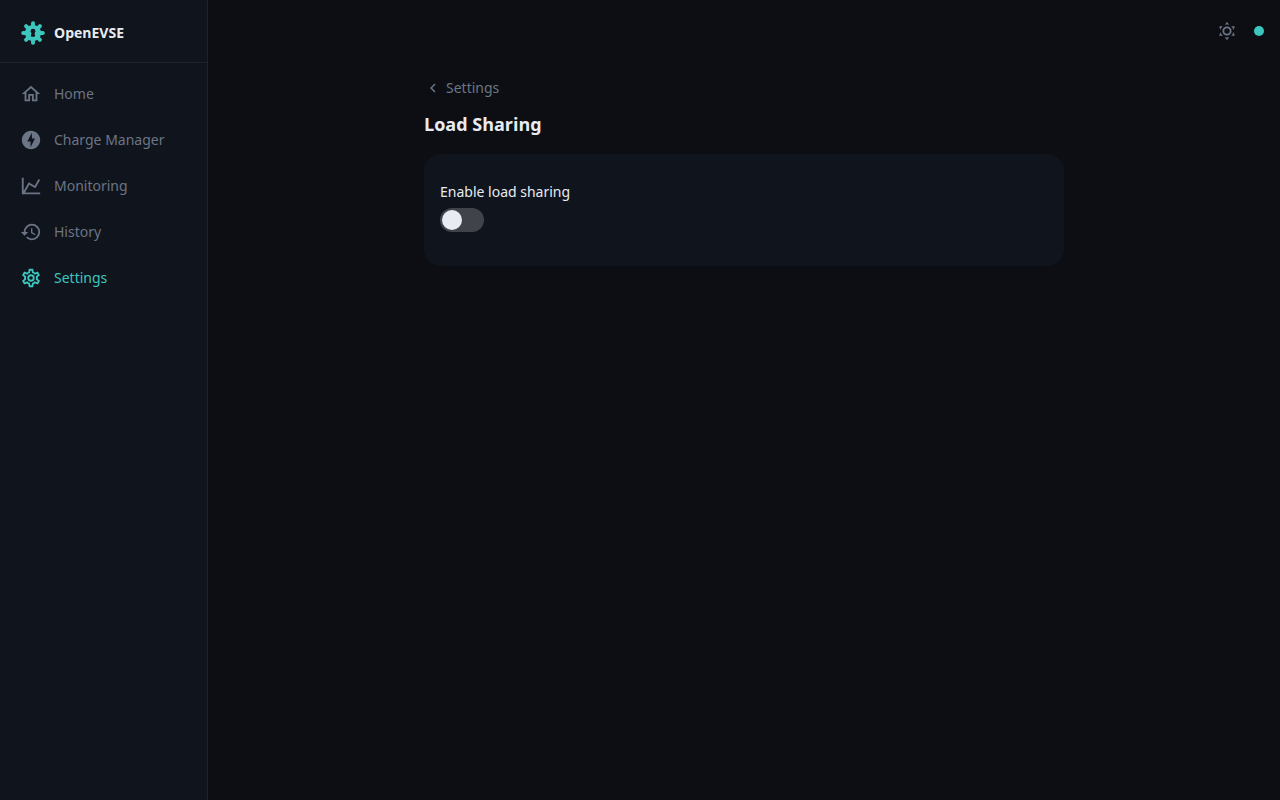
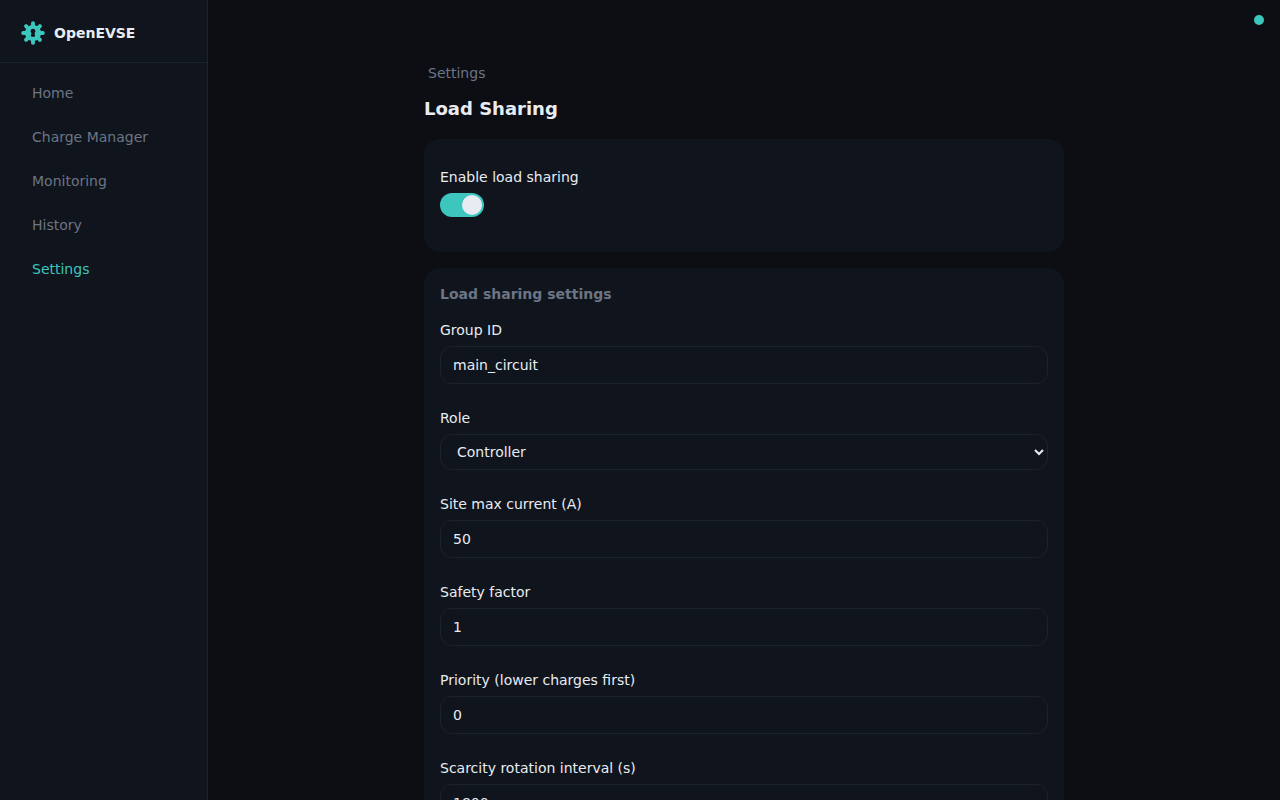
fix load sharing review follow-ups

diff --git a/dev/mock-plugin.js b/dev/mock-plugin.js
@@ -85,8 +85,8 @@ export function mockPlugin() {
   // run; reset by restarting the server.
   const rfidUsers = JSON.parse(loadFixture('rfid_users.json'))
   const loadsharingPeers = [
-    { id: 'peer-1', name: 'Garage', host: 'garage.local', online: true, joined: true },
-    { id: 'peer-2', name: 'Yard', host: 'yard.local', online: true, joined: false }
+    { id: 'peer-1', name: 'Garage', host: 'garage.local', online: true, joined: true, priority: 0 },
+    { id: 'peer-2', name: 'Yard', host: 'yard.local', online: true, joined: false, priority: 0 }
   ]
 
   // Dev-only runtime state override. Lets the resting/charging layouts be
@@ -202,7 +202,7 @@ export function mockPlugin() {
                 if (existing) {
                   existing.joined = true
                 } else {
-                  loadsharingPeers.push({ id: `peer-${Date.now()}`, name: host, host, online: true, joined: true })
+                  loadsharingPeers.push({ id: `peer-${Date.now()}`, name: host, host, online: true, joined: true, priority: 0 })
                 }
               } catch {}
               res.writeHead(200, { 'Content-Type': 'application/json' })
@@ -213,6 +213,23 @@ export function mockPlugin() {
         }
 
         if (url && url.startsWith('/api/loadsharing/peers/')) {
+          if (req.method === 'PUT') {
+            const host = decodeURIComponent(url.slice('/api/loadsharing/peers/'.length))
+            let body = ''
+            req.on('data', (chunk) => { body += chunk })
+            req.on('end', () => {
+              try {
+                const { priority } = JSON.parse(body)
+                const peer = loadsharingPeers.find(p => p.host === host)
+                if (peer) {
+                  peer.priority = priority
+                }
+              } catch {}
+              res.writeHead(200, { 'Content-Type': 'application/json' })
+              res.end(JSON.stringify({ msg: 'done' }))
+            })
+            return
+          }
           if (req.method === 'DELETE') {
             const host = decodeURIComponent(url.slice('/api/loadsharing/peers/'.length))
             const idx = loadsharingPeers.findIndex(p => p.host === host)

diff --git a/src/routes/settings/LoadSharing.svelte b/src/routes/settings/LoadSharing.svelte
@@ -44,9 +44,6 @@
       ? $loadsharing_store.status.peers
       : ($loadsharing_store?.peers ?? []),
   )
-  let allocationVersion = $derived($status_store?.loadsharing_status_version)
-  let joinedPeersFromWs = $derived(Array.isArray($status_store?.loadsharing_joined_peers) ? $status_store.loadsharing_joined_peers : [])
-  let groupCurrentTotal = $derived($status_store?.loadsharing_group_current_total ?? 0)
   let allocations = $derived($loadsharing_store?.status?.allocations ?? [])
   let runtimeStatus = $derived($loadsharing_store?.status ?? {})
   let hasSafetyFactor = $derived($config_store?.loadsharing_safety_factor !== undefined)
@@ -74,7 +71,9 @@
     controllerPeer?.url || (controllerHost ? `http://${controllerHost}` : ''),
   )
   let memberAssignedLimit = $derived(
-    $claims_target_store?.claims?.max_current === EvseClients.shaper.id
+    [EvseClients.shaper.id, EvseClients.loadsharing.id].includes(
+      $claims_target_store?.claims?.max_current,
+    )
       ? $claims_target_store?.properties?.max_current ?? null
       : null,
   )
@@ -158,6 +157,15 @@
     peersBusy = true
     try {
       await loadsharing_store.discover()
+    } finally {
+      peersBusy = false
+    }
+  }
+
+  async function refreshPeers() {
+    peersBusy = true
+    try {
+      await loadsharing_store.refresh()
     } finally {
       peersBusy = false
     }
@@ -340,7 +348,7 @@
 
     {#if isController}
       <ConfigSection title={$_('config.loadsharing.peers')}>
-        <div class="mb-3 grid gap-2 sm:grid-cols-[1fr_auto_auto]">
+        <div class="mb-3 grid gap-2 sm:grid-cols-[1fr_auto_auto_auto]">
           <TextInput
             value={peerHost}
             placeholder="openevse-2.local"
@@ -357,6 +365,12 @@
             variant="ghost"
             disabled={peersBusy}
             onclick={discoverPeers}
+          />
+          <Button
+            label={$_('config.loadsharing.refresh')}
+            variant="ghost"
+            disabled={peersBusy}
+            onclick={refreshPeers}
           />
         </div>
 

diff --git a/src/routes/settings/__tests__/LoadSharing.test.js b/src/routes/settings/__tests__/LoadSharing.test.js
@@ -104,7 +104,7 @@ describe('LoadSharing page', () => {
     })
     claims_target_store.set({
       properties: { max_current: 10 },
-      claims: { state: null, max_current: EvseClients.shaper.id },
+      claims: { state: null, max_current: EvseClients.loadsharing.id },
     })
     config_store.set({
       loadsharing_enabled: true,
@@ -167,6 +167,23 @@ describe('LoadSharing page', () => {
     await fireEvent.click(addButton)
 
     expect(addPeerSpy).toHaveBeenCalledWith('yard.local')
+    expect(refreshSpy).toHaveBeenCalled()
+  })
+
+  it('allows refreshing peers from the controller toolbar', async () => {
+    config_store.set({
+      loadsharing_enabled: true,
+      loadsharing_role: 'controller',
+      loadsharing_group_id: 'main',
+      loadsharing_group_max_current: 50,
+      loadsharing_safety_factor: 0.9,
+    })
+
+    const refreshSpy = vi.spyOn(loadsharing_store, 'refresh').mockResolvedValue(true)
+
+    const { getByText } = render(LoadSharing)
+    await fireEvent.click(getByText('config.loadsharing.refresh'))
+
     expect(refreshSpy).toHaveBeenCalled()
   })
 

diff --git a/src/routes/Dashboard.svelte b/src/routes/Dashboard.svelte
@@ -116,7 +116,9 @@
   let loadSharingControlled = $derived(loadSharingEnabled && loadSharingRole === 'member')
   let loadSharingController = $derived($config_store?.loadsharing_controller_host ?? '')
   let loadSharingClaimed = $derived(
-    $claims_target_store?.claims?.max_current === EvseClients.shaper.id,
+    [EvseClients.shaper.id, EvseClients.loadsharing.id].includes(
+      $claims_target_store?.claims?.max_current,
+    ),
   )
   let loadSharingBadges = $derived({
     active: loadSharingEnabled,

diff --git a/src/routes/__tests__/Dashboard.test.js b/src/routes/__tests__/Dashboard.test.js
@@ -339,7 +339,7 @@ describe('Dashboard', () => {
     })
     claims_target_store.set({
       properties: { max_current: 16 },
-      claims: { state: null, max_current: EvseClients.shaper.id },
+      claims: { state: null, max_current: EvseClients.loadsharing.id },
     })
     status_store.set({ state: 1, total_day: 0, total_energy: 0, pilot: 16 })
     const { getByText, getAllByText } = render(Dashboard)
